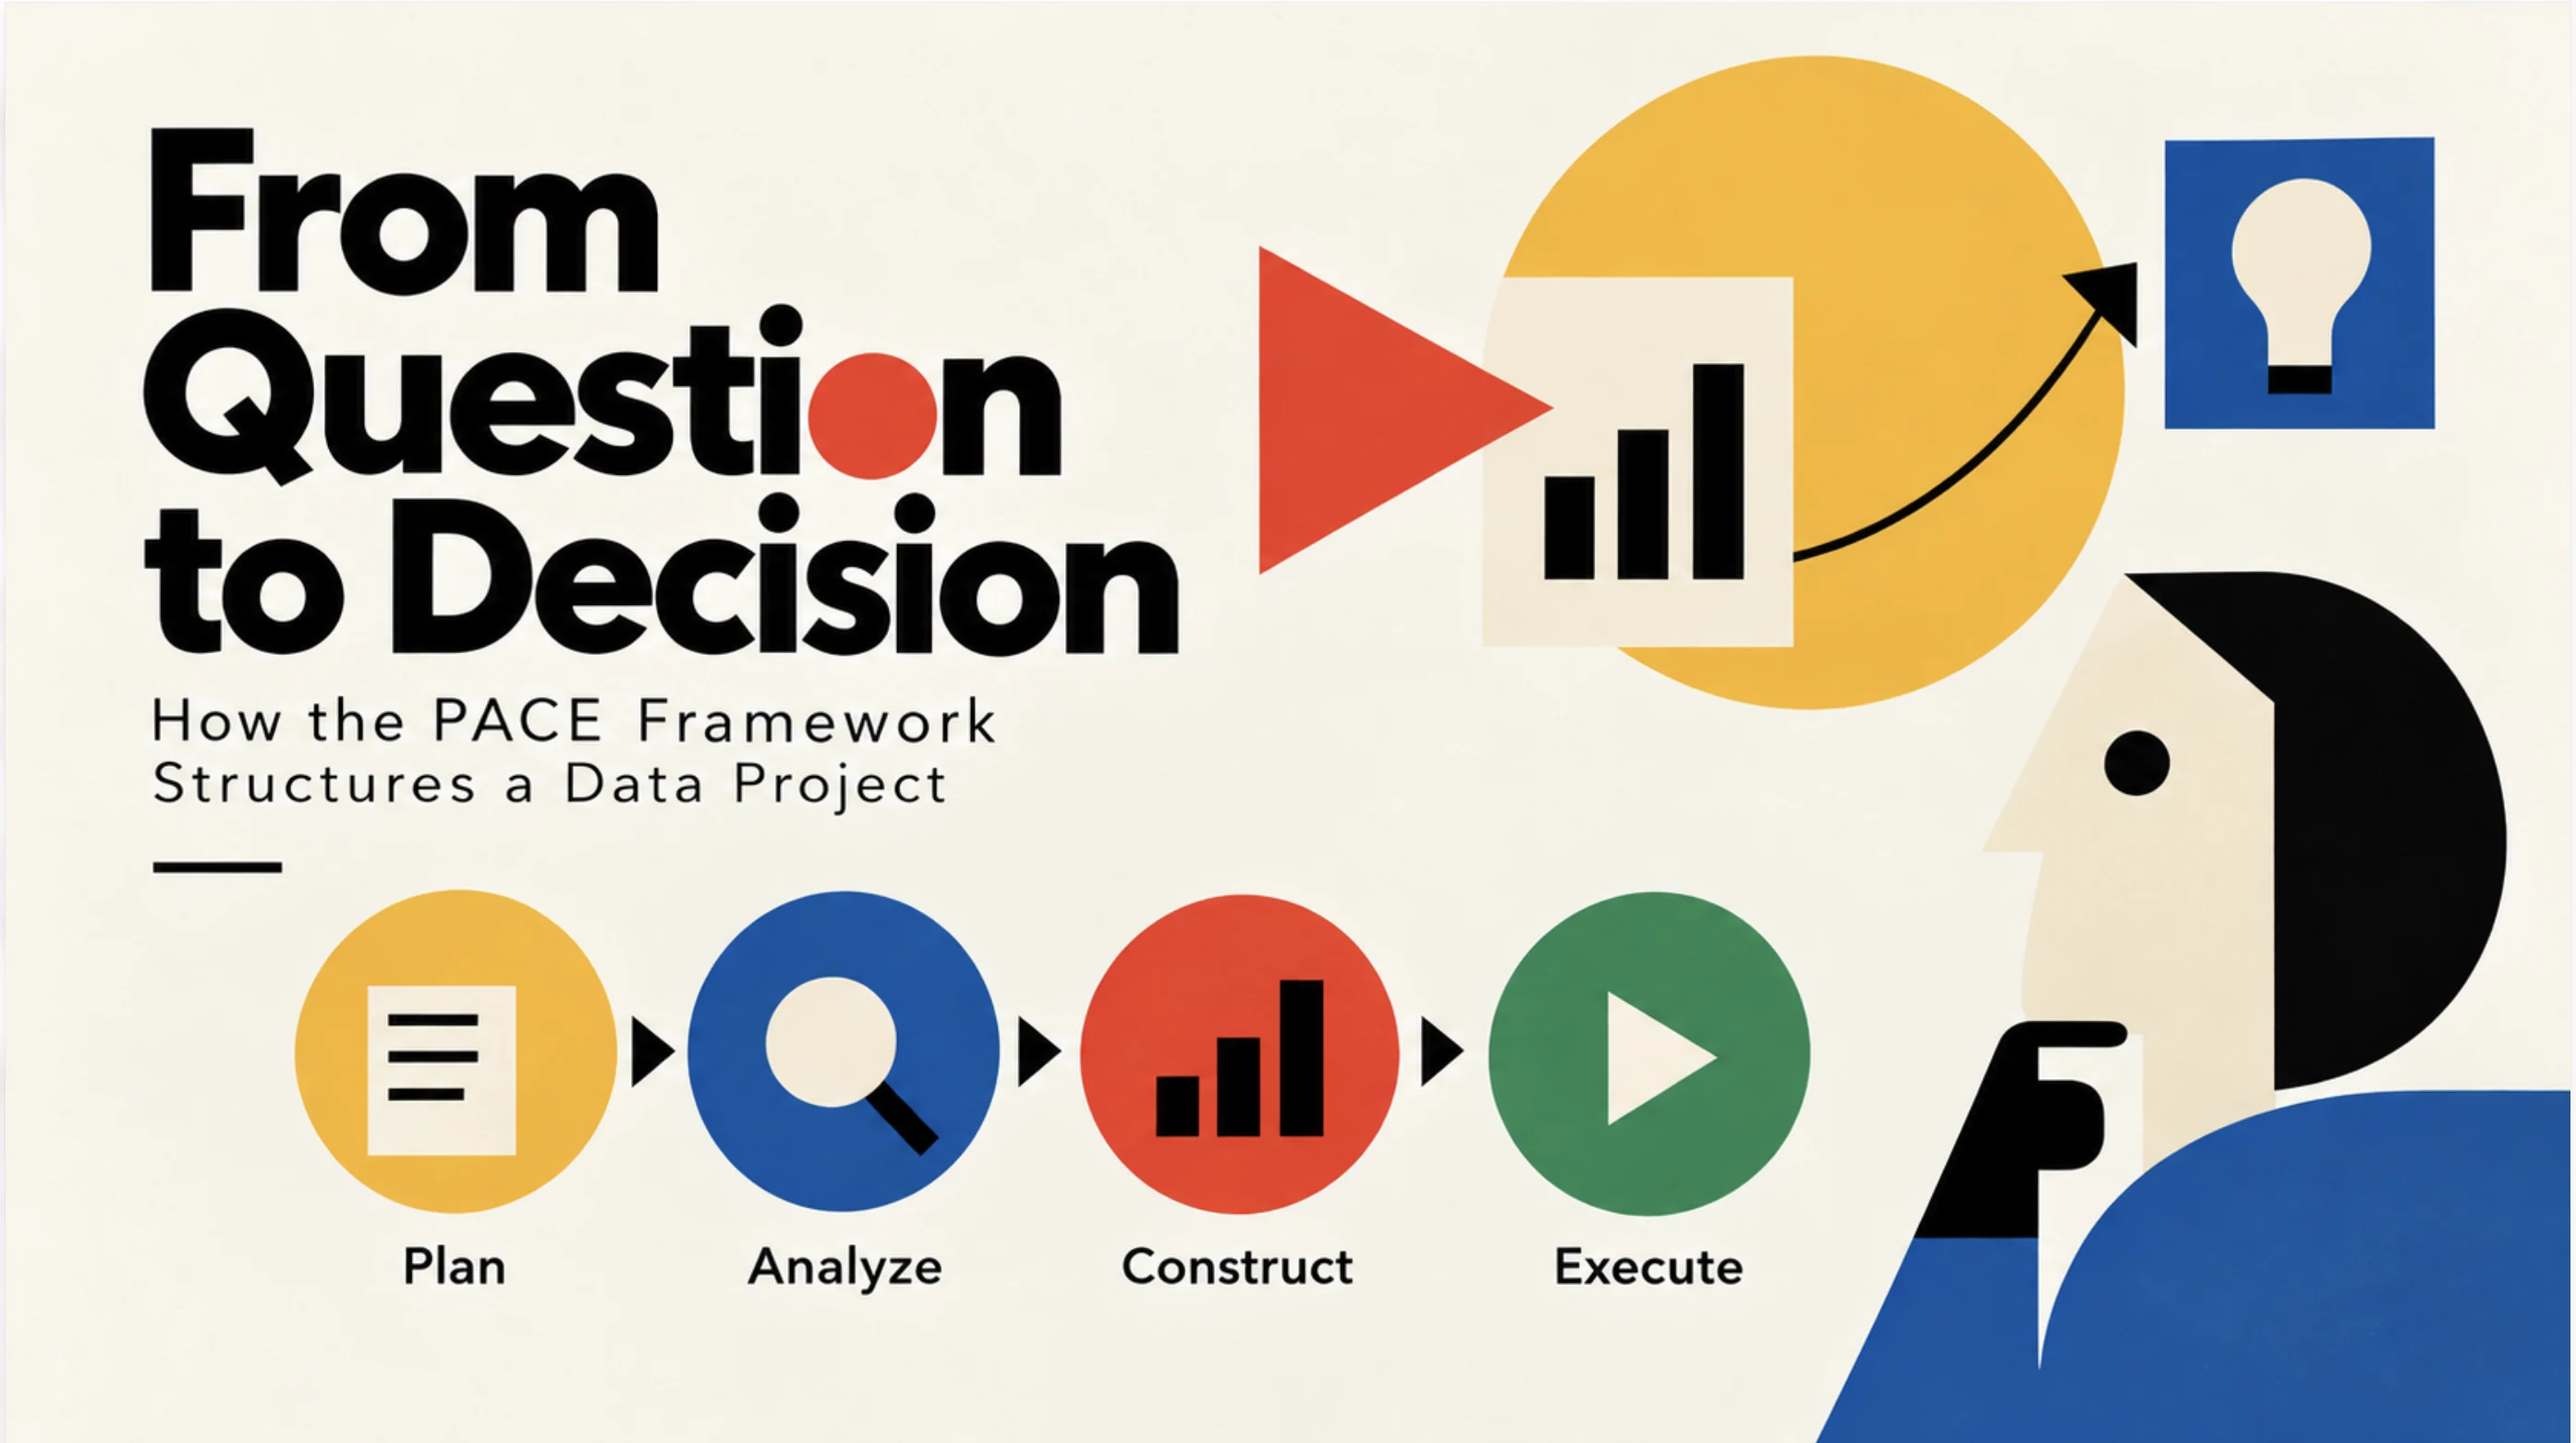
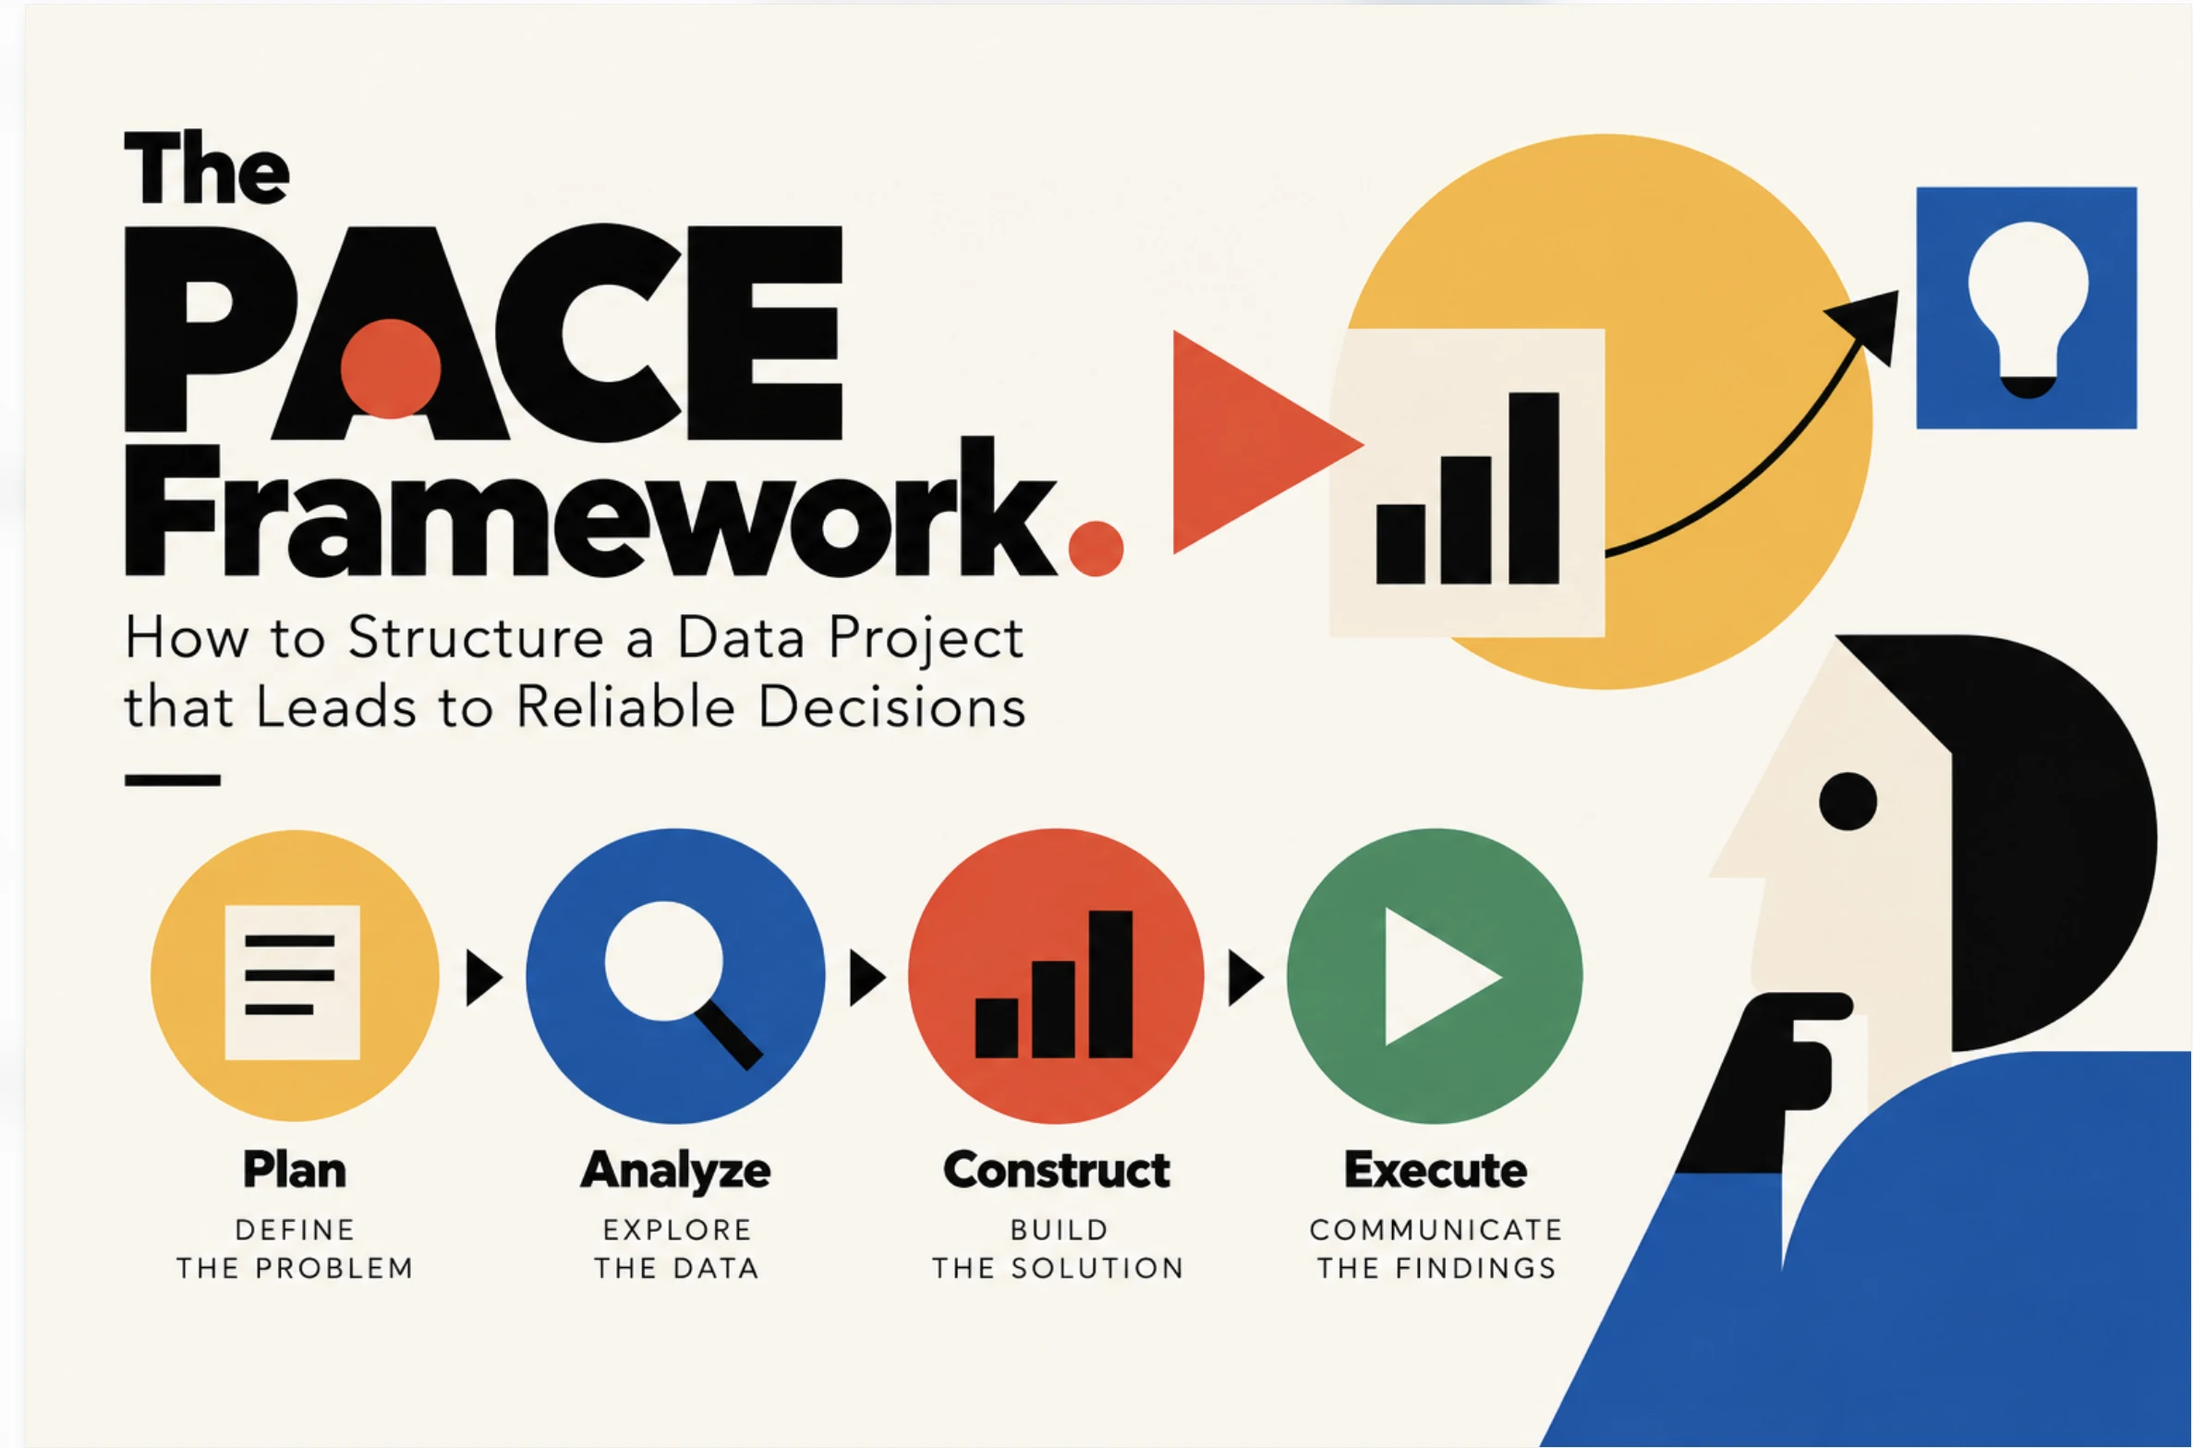
Replace PACE framework cover image
Claude-Session: https://claude.ai/code/session_01RVJVZSRhZWVP3cTjzWmZ2G

Changed region(s): [[0.0312, 0.0307, 1.0, 1.0], [0.9663, 0.4917, 0.9975, 0.6453], [0.6858, 0.9834, 0.7169, 1.0]]

diff --git a/statistics.html b/statistics.html
@@ -59,7 +59,7 @@
       </a>
 
       <a class="project-card" href="pace-framework.html">
-        <span class="project-card-img"><img src="images/pace-framework-cover.webp" alt="From Question to Decision: the four PACE stages Plan, Analyze, Construct and Execute as colored circles" width="2788" height="1562" loading="lazy" style="object-position:left center"></span>
+        <span class="project-card-img"><img src="images/pace-framework-cover.webp?v=20261012" alt="The PACE Framework: how to structure a data project that leads to reliable decisions, with the four stages Plan, Analyze, Construct and Execute" width="2374" height="1568" loading="lazy"></span>
         <span class="project-card-body">
           <span class="project-type">Data fundamentals</span>
           <span class="project-title">From Question to Decision: the PACE Framework</span>
